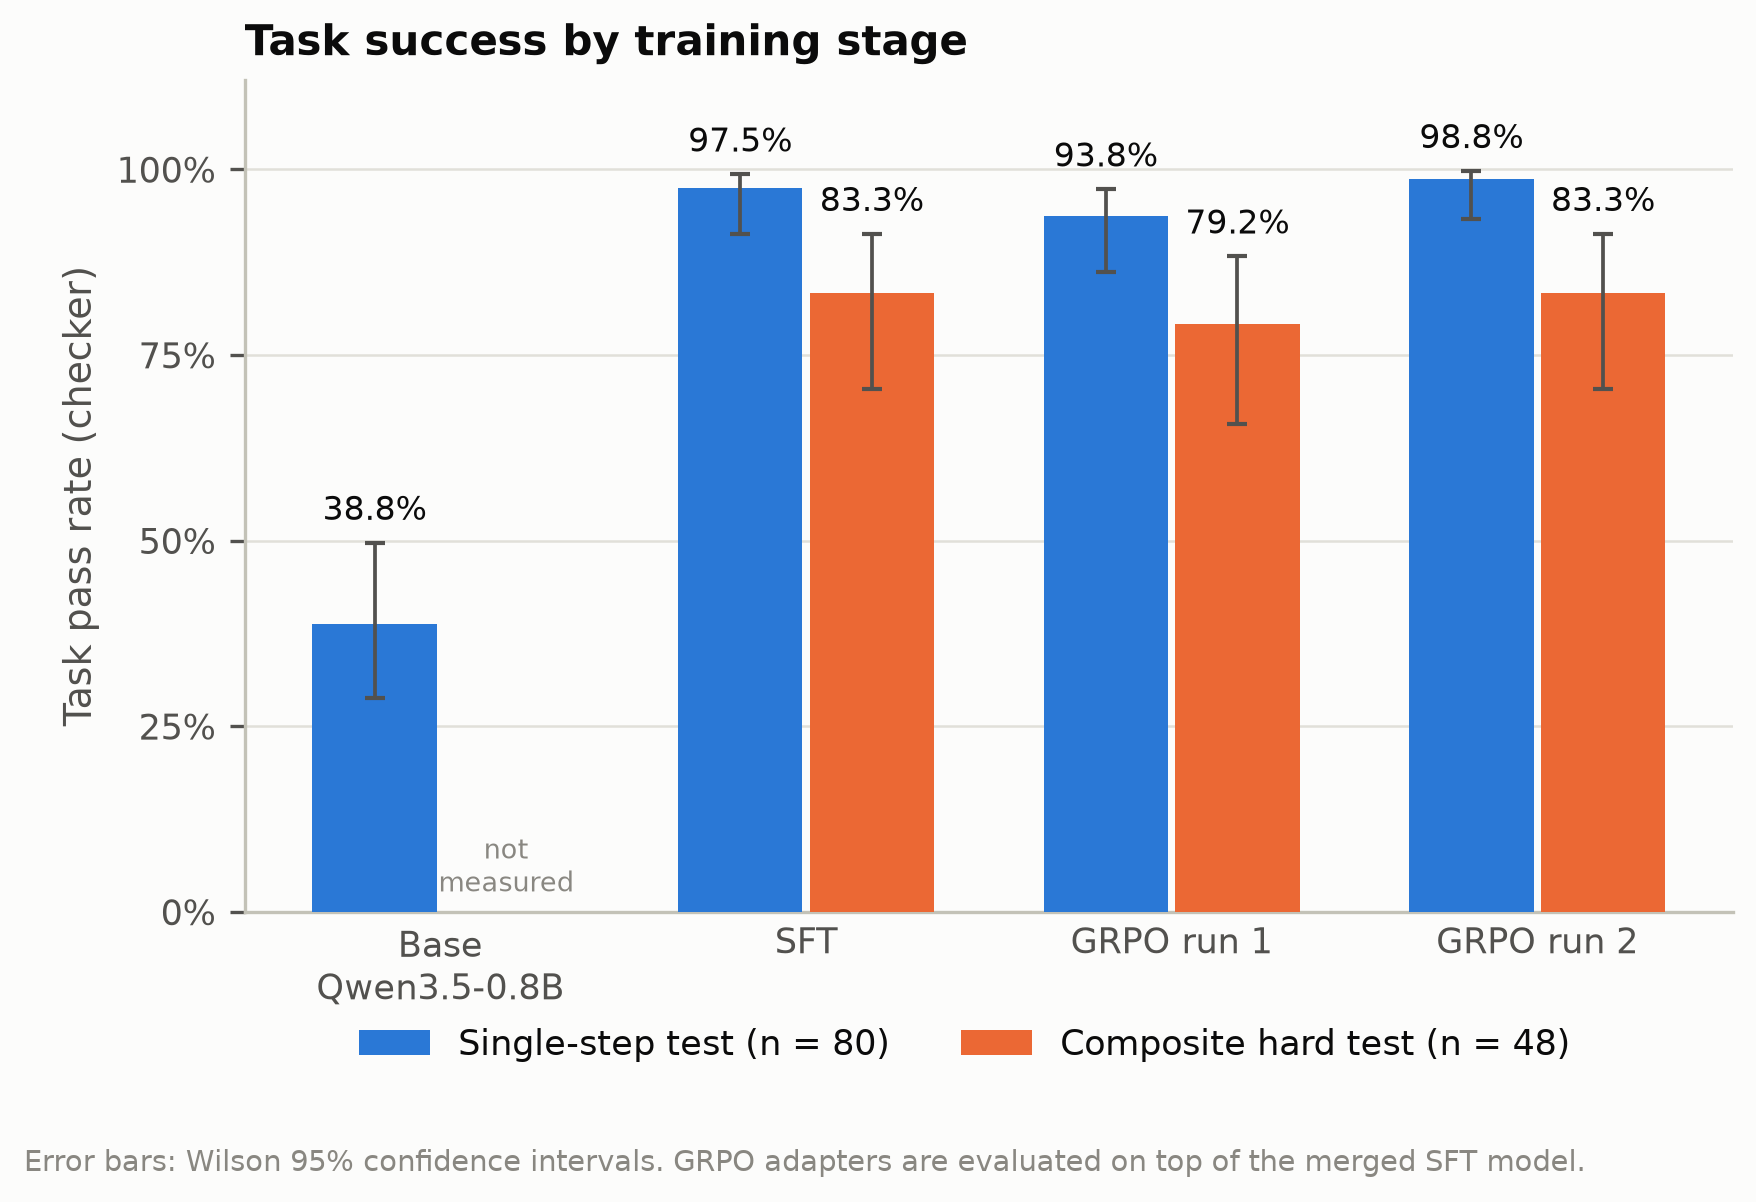
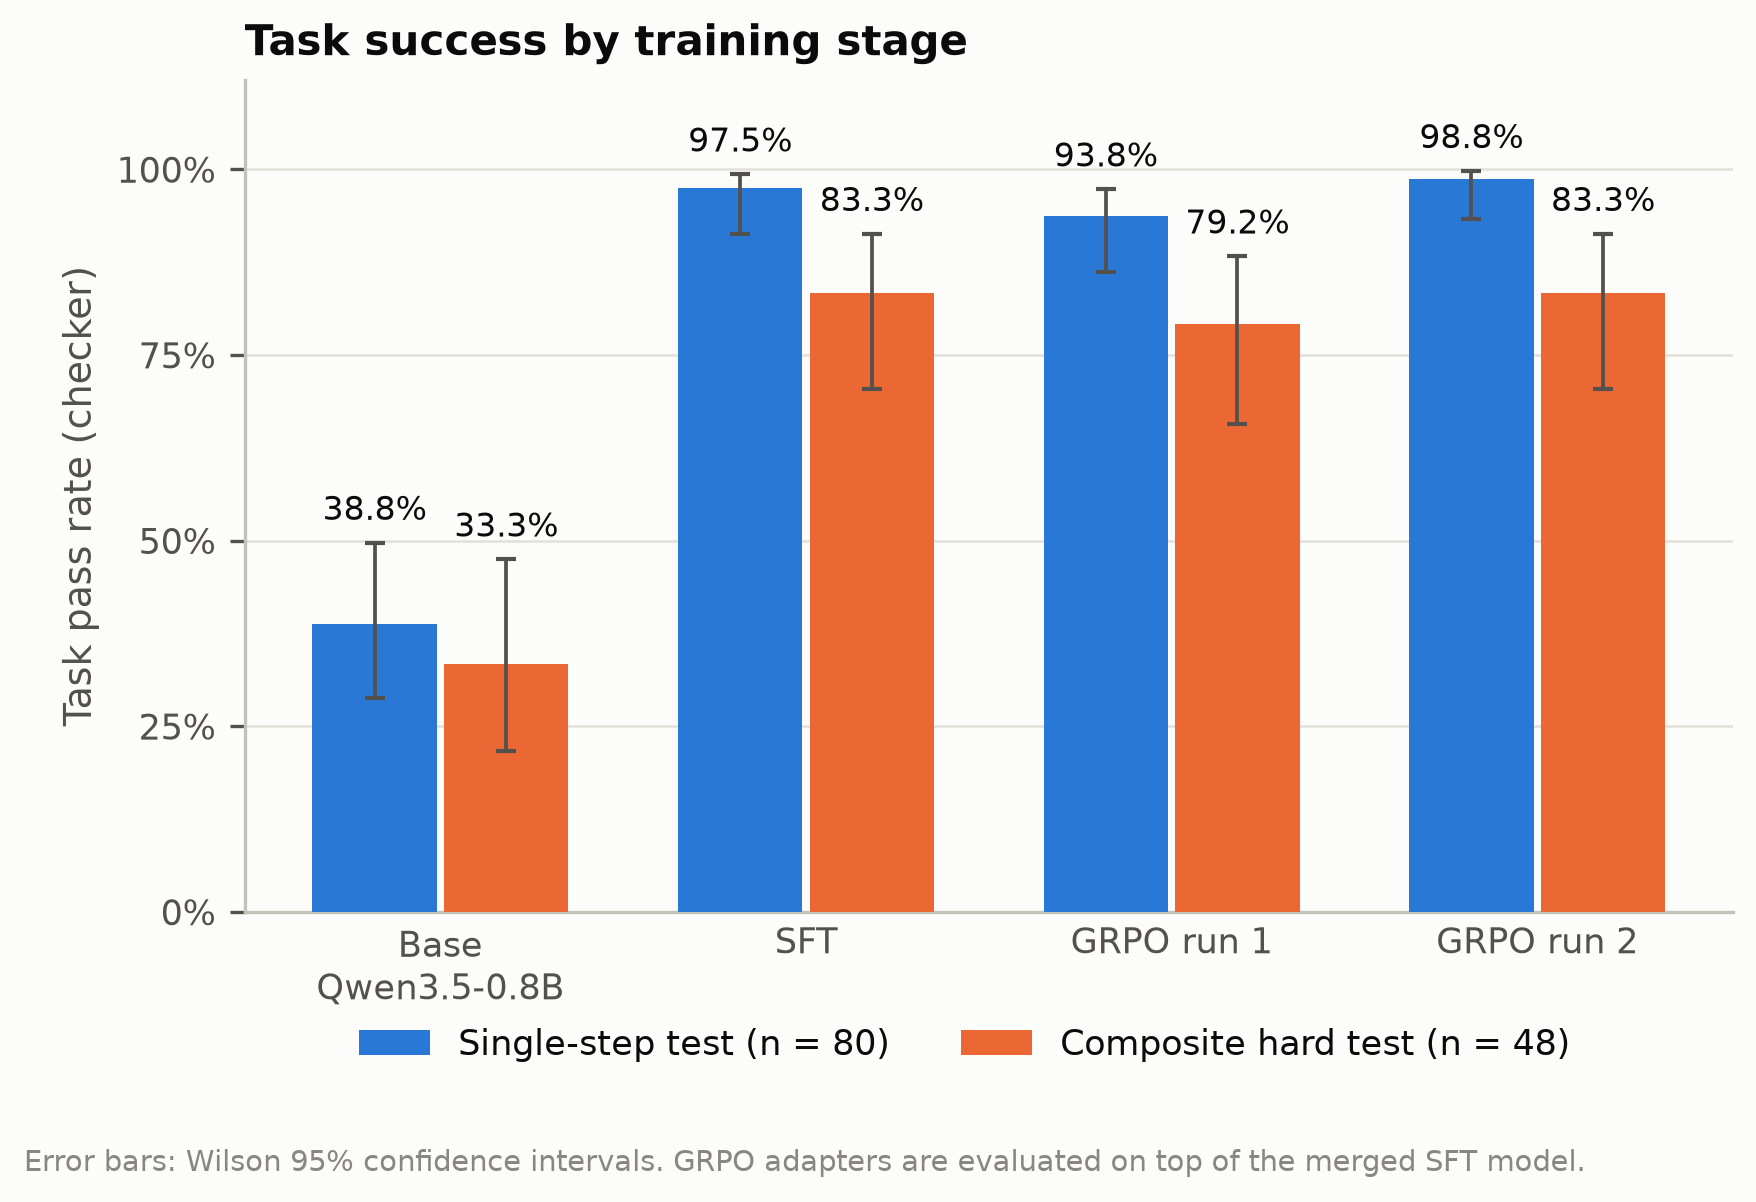
Regenerate figures: base-hard bar in fig1, timestamp-free PDFs

Changed region(s): [[0.246, 0.5233, 0.3383, 0.7696], [0.2768, 0.4309, 0.3075, 0.4925]]

diff --git a/figures/results_table.md b/figures/results_table.md
@@ -1,6 +1,6 @@
 | Stage | Easy pass [95% CI] | Calls | Final msg | Judge | Hard pass [95% CI] | Calls | Judge |
 |---|---|---|---|---|---|---|---|
-| Base Qwen3.5-0.8B | 38.8% [29, 50] | 6.05 | 41% | 0.38 | not measured | - | - |
+| Base Qwen3.5-0.8B | 38.8% [29, 50] | 6.05 | 41% | 0.38 | 33.3% [22, 47] | 6.50 | 0.37 |
 | SFT | 97.5% [91, 99] | 2.20 | 100% | 0.97 | 83.3% [70, 91] | 3.77 | 0.85 |
 | GRPO run 1 | 93.8% [86, 97] | 1.34 | 96% | 0.94 | 79.2% [66, 88] | 2.71 | 0.80 |
 | GRPO run 2 | 98.8% [93, 100] | 1.77 | 100% | 0.99 | 83.3% [70, 91] | 2.73 | 0.84 |
